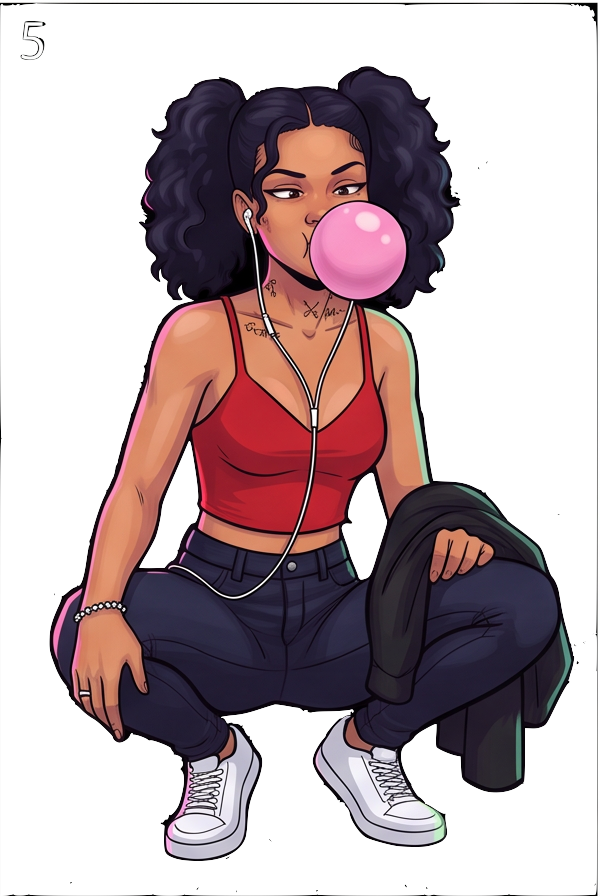
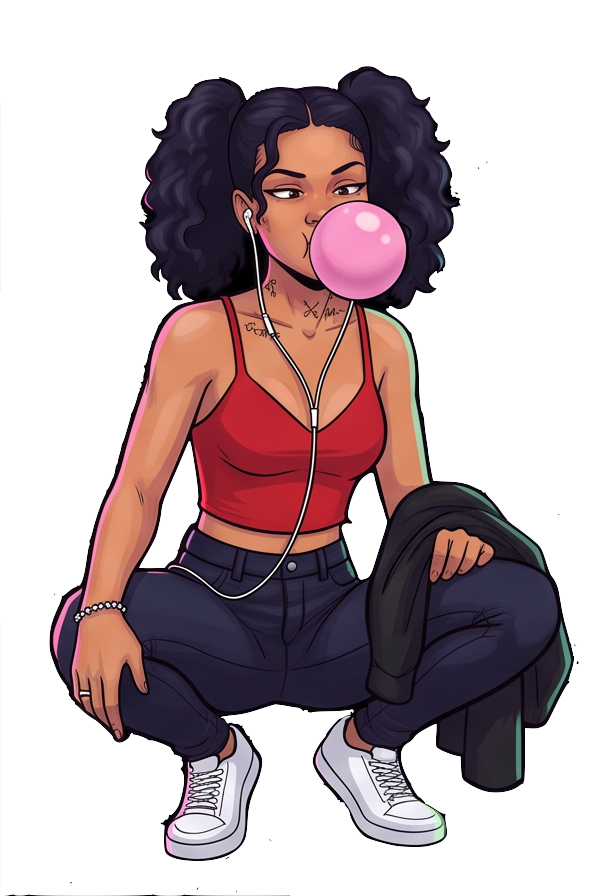
Clean sierra gum frames + faster timing

Changed region(s): [[0.93, 0.0, 1.0, 1.0], [0.0, 0.0, 0.09, 0.0625], [0.66, 0.0, 0.72, 0.0312]]

diff --git a/twisted/index.html b/twisted/index.html
@@ -151,7 +151,7 @@ loadImg('sierra_backq_a', 'assets/sierra_backq_a.png');
 loadImg('sierra_backq_b', 'assets/sierra_backq_b.png');
 loadImg('sierra_squat',   'assets/sierra_squat.png');
 // Sierra bubble gum idle animation frames
-for (let _gi = 1; _gi <= 8; _gi++) loadImg(`sierra_gum_${_gi}`, `assets/sierra_gum_${_gi}.png`);
+for (let _gi = 1; _gi <= 8; _gi++) loadImg(`sierra_gum_${_gi}`, `assets/sierra_gum_${_gi}.png?v=2`);
 // Naomi directional sprites (base + walk frames a/b + squat)
 loadImg('naomi_front',    'assets/naomi_front.png');
 loadImg('naomi_back',     'assets/naomi_back.png');
@@ -670,9 +670,9 @@ function update(ts) {
   }
 
   // ─── Sierra gum idle animation ────────────────────────────────────────────
-  const GUM_FRAME_DUR  = [0.55, 0.45, 0.55, 0.55, 0.65, 0.22, 0.55, 0.90];
+  const GUM_FRAME_DUR  = [0.30, 0.22, 0.28, 0.28, 0.32, 0.12, 0.28, 0.50];
   const GUM_TRIGGER    = 5.0;
-  const GUM_FADE_SPEED = 2.8;  // crossfade speed (1/s) — ~0.36s transition
+  const GUM_FADE_SPEED = 3.5;  // faster fade — ~0.28s
 
   if (P.crouch && !NPC.moving && !NPC.gumActive && !NPC.gumFading) {
     NPC.idleTimer += dt;
